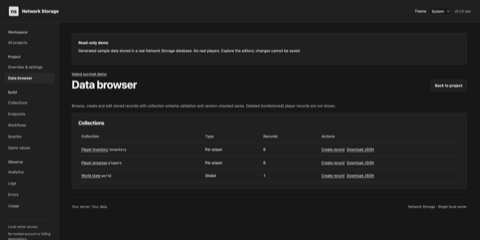
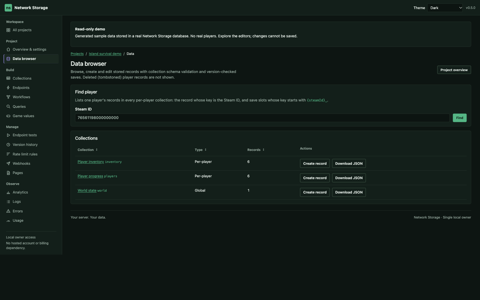
Use Demo green branding and refresh live demo screenshots

diff --git a/index.html b/index.html
@@ -18,7 +18,7 @@
   <meta name="twitter:title" content="s&amp;box Network Storage | Open-Source Game Backend">
   <meta name="twitter:description" content="Open-source, self-hosted game backend for s&amp;box. Player-hosted, P2P or dedicated: your backend owns the economy.">
   <meta name="twitter:image" content="https://sboxns.com/images/social-card.png">
-  <meta name="twitter:image:alt" content="Network Storage's blue ns icon and the message: Your game. Any host. Your backend.">
+  <meta name="twitter:image:alt" content="Network Storage's green ns icon and the message: Your game. Any host. Your backend.">
   <link rel="icon" type="image/svg+xml" href="images/favicon.svg">
   <link rel="icon" href="images/favicon.ico" sizes="any">
   <link rel="icon" type="image/png" sizes="32x32" href="images/favicon-32x32.png">
@@ -139,21 +139,21 @@ sudo sbox-ns doctor</code></pre>
       </div>
       <div class="gallery">
         <figure>
-          <a href="images/demo-dashboard.png" data-lightbox="shot-dashboard"><img src="images/demo-dashboard-thumb.png" alt="Demo project dashboard with generated Island survival project. Enlarge." width="480" height="240" loading="lazy"></a>
-          <figcaption>Project dashboard with generated sample data</figcaption>
+          <a href="images/demo-dashboard.png" data-lightbox="shot-dashboard"><img src="images/demo-dashboard-thumb.png" alt="Demo project overview for the Island survival demo: 3 collections, 1 endpoint and Enabled status. Enlarge." width="480" height="300" loading="lazy"></a>
+          <figcaption>Project overview with collections, endpoints and connect snippet</figcaption>
         </figure>
         <figure>
-          <a href="images/demo-data-browser.png" data-lightbox="shot-data"><img src="images/demo-data-browser-thumb.png" alt="Demo data browser listing player, inventory and world collections. Enlarge." width="480" height="240" loading="lazy"></a>
+          <a href="images/demo-data-browser.png" data-lightbox="shot-data"><img src="images/demo-data-browser-thumb.png" alt="Demo data browser listing Player inventory, Player progress and World state collections. Enlarge." width="480" height="300" loading="lazy"></a>
           <figcaption>Data browser across player and world collections</figcaption>
         </figure>
         <figure>
-          <a href="images/demo-player-records.png" data-lightbox="shot-players"><img src="images/demo-player-records-thumb.png" alt="Demo player progress records with levels, coins and quests. Enlarge." width="480" height="240" loading="lazy"></a>
+          <a href="images/demo-player-records.png" data-lightbox="shot-players"><img src="images/demo-player-records-thumb.png" alt="Demo player progress records: six demo players with levels, coins and quests. Enlarge." width="480" height="300" loading="lazy"></a>
           <figcaption>Player records with levels, coins and quests</figcaption>
         </figure>
       </div>
-      <dialog class="lightbox" id="shot-dashboard" aria-label="Demo project dashboard with generated Island survival project"><form method="dialog"><button class="lightbox-close" autofocus>Close</button></form><img src="images/demo-dashboard.png" alt="Demo project dashboard with generated Island survival project" width="1440" height="722"></dialog>
-      <dialog class="lightbox" id="shot-data" aria-label="Demo data browser listing player, inventory and world collections"><form method="dialog"><button class="lightbox-close" autofocus>Close</button></form><img src="images/demo-data-browser.png" alt="Demo data browser listing player, inventory and world collections" width="1440" height="722"></dialog>
-      <dialog class="lightbox" id="shot-players" aria-label="Demo player progress records with levels, coins and quests"><form method="dialog"><button class="lightbox-close" autofocus>Close</button></form><img src="images/demo-player-records.png" alt="Demo player progress records with levels, coins and quests" width="1440" height="722"></dialog>
+      <dialog class="lightbox" id="shot-dashboard" aria-label="Demo project overview for the Island survival demo"><form method="dialog"><button class="lightbox-close" autofocus>Close</button></form><img src="images/demo-dashboard.png" alt="Demo project overview for the Island survival demo: 3 collections, 1 endpoint and Enabled status" width="1440" height="900"></dialog>
+      <dialog class="lightbox" id="shot-data" aria-label="Demo data browser listing player, inventory and world collections"><form method="dialog"><button class="lightbox-close" autofocus>Close</button></form><img src="images/demo-data-browser.png" alt="Demo data browser listing player, inventory and world collections" width="1440" height="900"></dialog>
+      <dialog class="lightbox" id="shot-players" aria-label="Demo player progress records with levels, coins and quests"><form method="dialog"><button class="lightbox-close" autofocus>Close</button></form><img src="images/demo-player-records.png" alt="Demo player progress records with levels, coins and quests" width="1440" height="900"></dialog>
     </section>
 
     <section>

diff --git a/site.css b/site.css
@@ -1,4 +1,4 @@
-:root { color-scheme: dark; --bg: #111217; --fg: #f1f1f4; --muted: #aaaab5; --accent: #7bd7ef; --primary: #0f6a86; --surface: #1d1e25; --border: #353640; }
+:root { color-scheme: dark; --bg: #111217; --fg: #f1f1f4; --muted: #aaaab5; --accent: #10b981; --primary: #10b981; --on-primary: #04120c; --surface: #1d1e25; --border: #353640; }
 * { box-sizing: border-box; }
 html { scroll-behavior: smooth; scroll-padding-top: 24px; }
 body { margin: 0; background: var(--bg); color: var(--fg); font: 16px/1.65 system-ui, sans-serif; }
@@ -21,7 +21,7 @@ p { color: var(--muted); max-width: 800px; }
 .promise { color: var(--fg); font-weight: 650; }
 .small { font-size: .9rem; max-width: 680px; }
 .actions { display: flex; flex-wrap: wrap; gap: 12px; margin: 28px 0; }
-.button { background: var(--primary); color: #fff; padding: 11px 22px; border: 1px solid var(--primary); border-radius: 7px; font-weight: 700; text-decoration: none; white-space: nowrap; }
+.button { background: var(--primary); color: var(--on-primary); padding: 11px 22px; border: 1px solid var(--primary); border-radius: 7px; font-weight: 700; text-decoration: none; white-space: nowrap; }
 .button:hover { background: var(--fg); color: var(--bg); border-color: var(--fg); }
 .secondary { color: var(--fg); background: transparent; border-color: var(--border); }
 code { background: var(--surface); padding: 2px 5px; border-radius: 4px; font-size: .88em; overflow-wrap: anywhere; }
